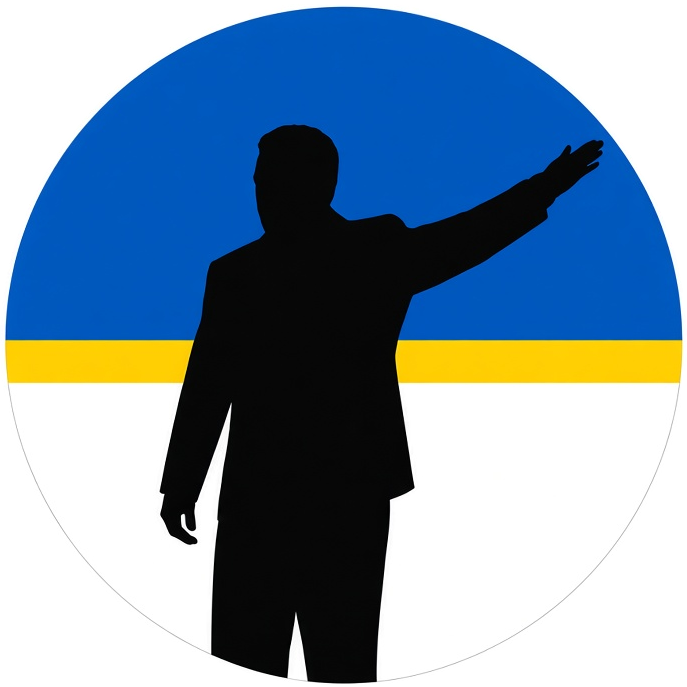
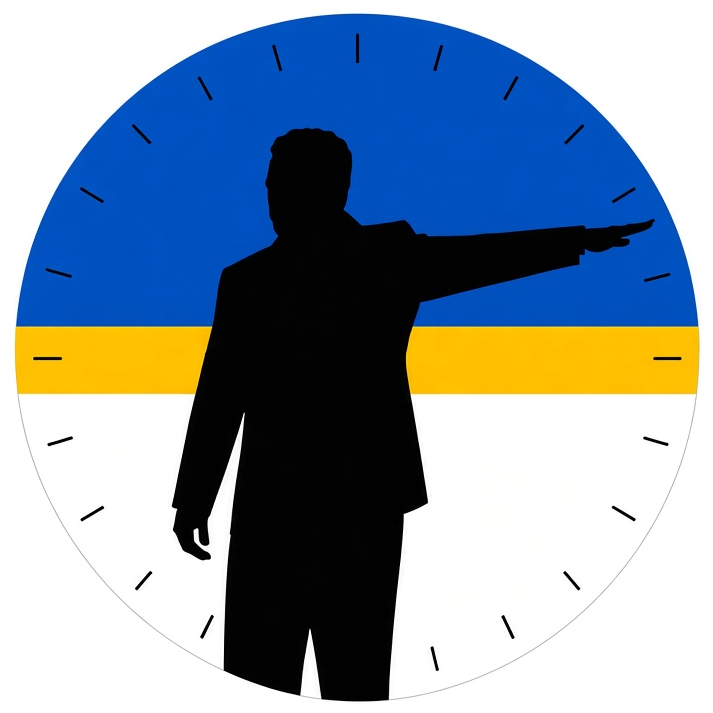
Switch Advantage to the 12-tick circular mark.
Home and PWA icons use the cleaned clock-tick logo. The previous no-tick badge is archived at public/branding/advantage-logo-previous-no-ticks.png.

diff --git a/src/pages/Home.tsx b/src/pages/Home.tsx
@@ -4,7 +4,7 @@ export function HomePage() {
   return (
     <main className="home">
       <div className="home__mark">
-        <img className="home__logo" src="/advantage-icon.png" alt="" width={687} height={687} />
+        <img className="home__logo" src="/advantage-icon.png" alt="" width={713} height={713} />
         <h1>Advantage</h1>
         <p>Gym scoreboard, round timer and photo slideshow.</p>
       </div>

diff --git a/vite.config.ts b/vite.config.ts
@@ -41,6 +41,7 @@ export default defineConfig({
       },
       workbox: {
         globPatterns: ['**/*.{js,css,html,ico,png,svg,woff2,webp}'],
+        globIgnores: ['**/branding/**'],
         navigateFallback: '/index.html',
       },
     }),
